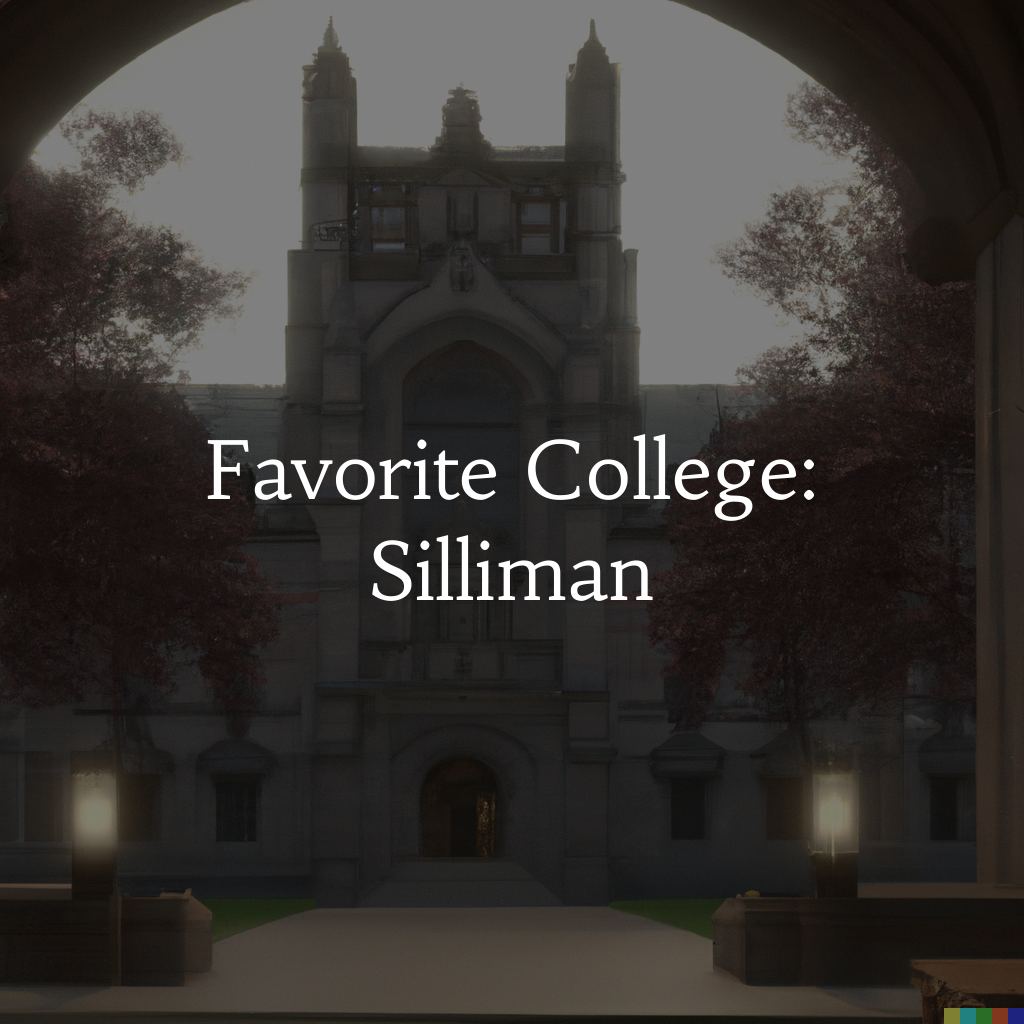
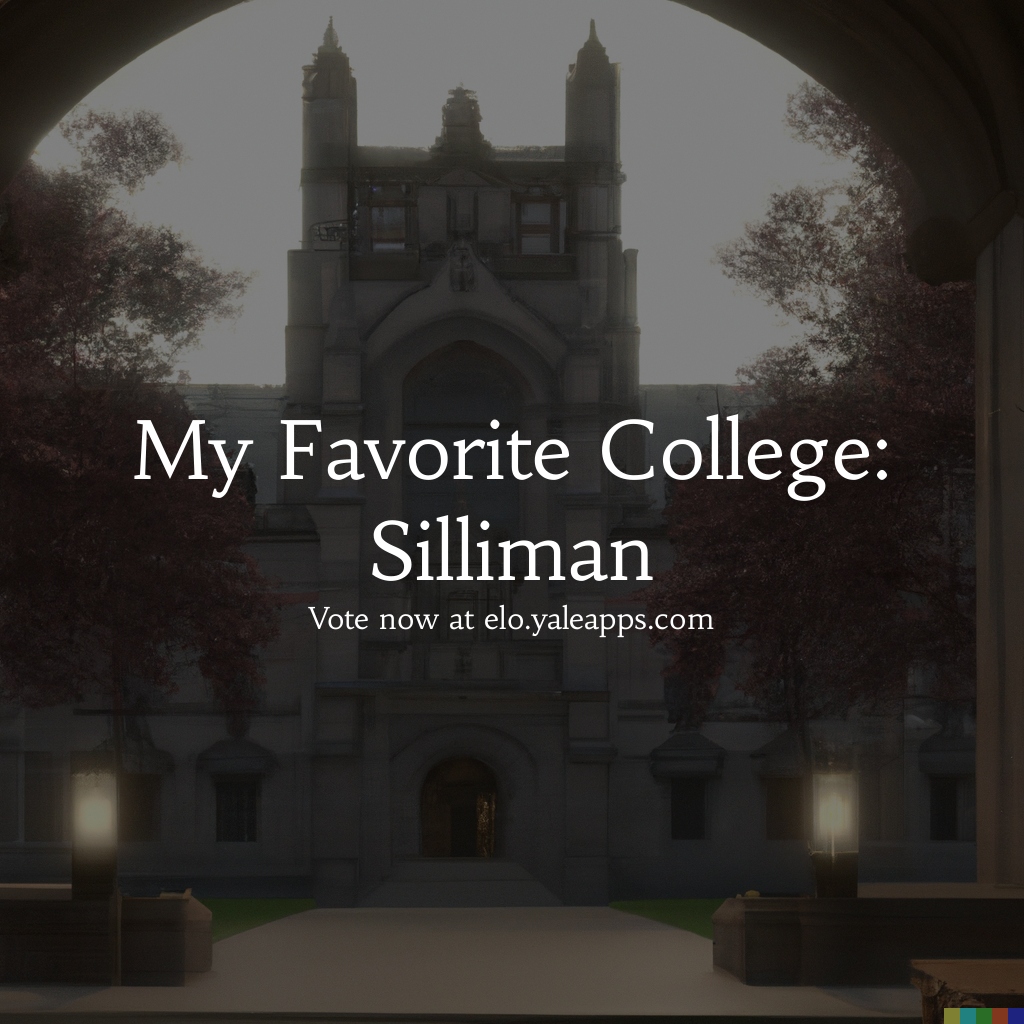
Feat: Favorite College Cards

Changed region(s): [[0.125, 0.4062, 0.875, 0.625]]

diff --git a/static/generateCards.py b/static/generateCards.py
@@ -38,7 +38,7 @@ for filename in os.listdir(folder_path):
         x3 = (image_copy.width - text_width3) / 2
         y1 = (image_copy.height - text_height1 - text_height2 - text_height3) / 2
         y2 = y1 + text_height1
-        y3 = y2 + text_height2
+        y3 = y2 + text_height2 + 15
         draw.text((x1, y1), line1, font=font_title, fill=(255, 255, 255, 255))
         draw.text((x2, y2), line2, font=font_title, fill=(255, 255, 255, 255))
         draw.text((x3, y3), line3, font=font_subtitle, fill=(255, 255, 255, 255))
